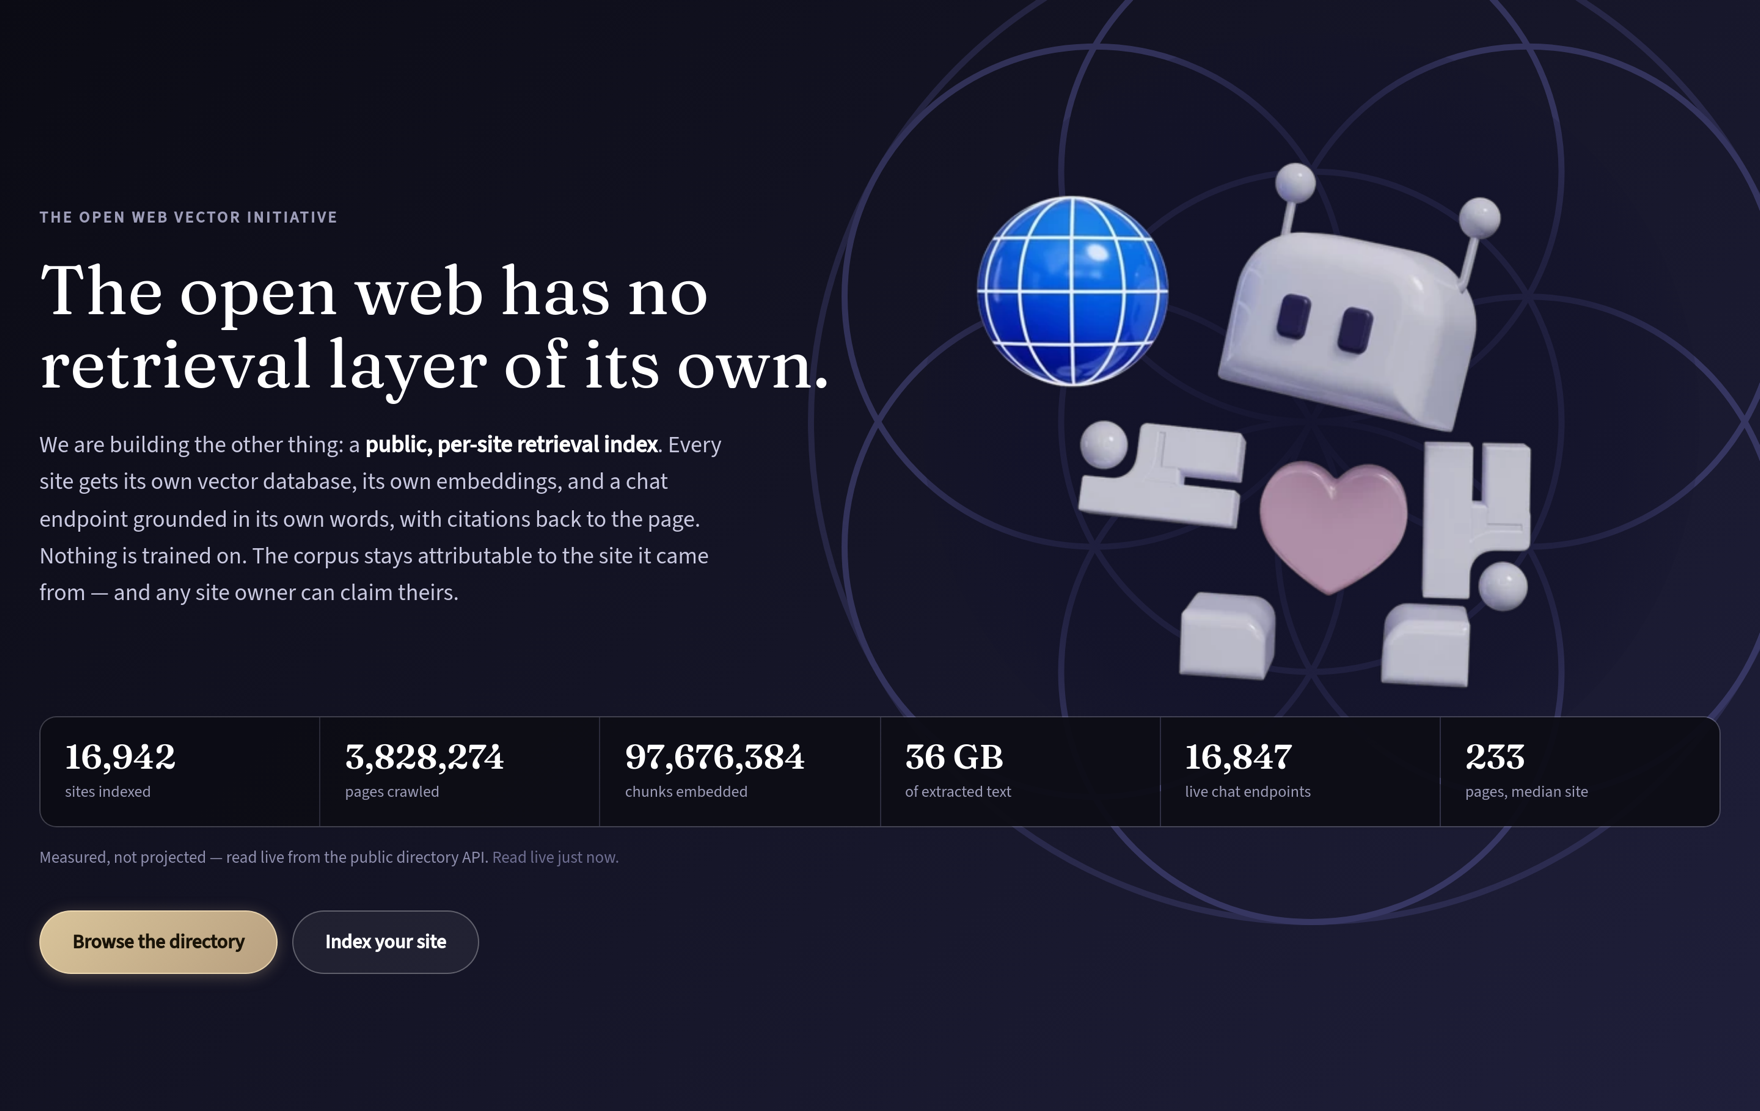
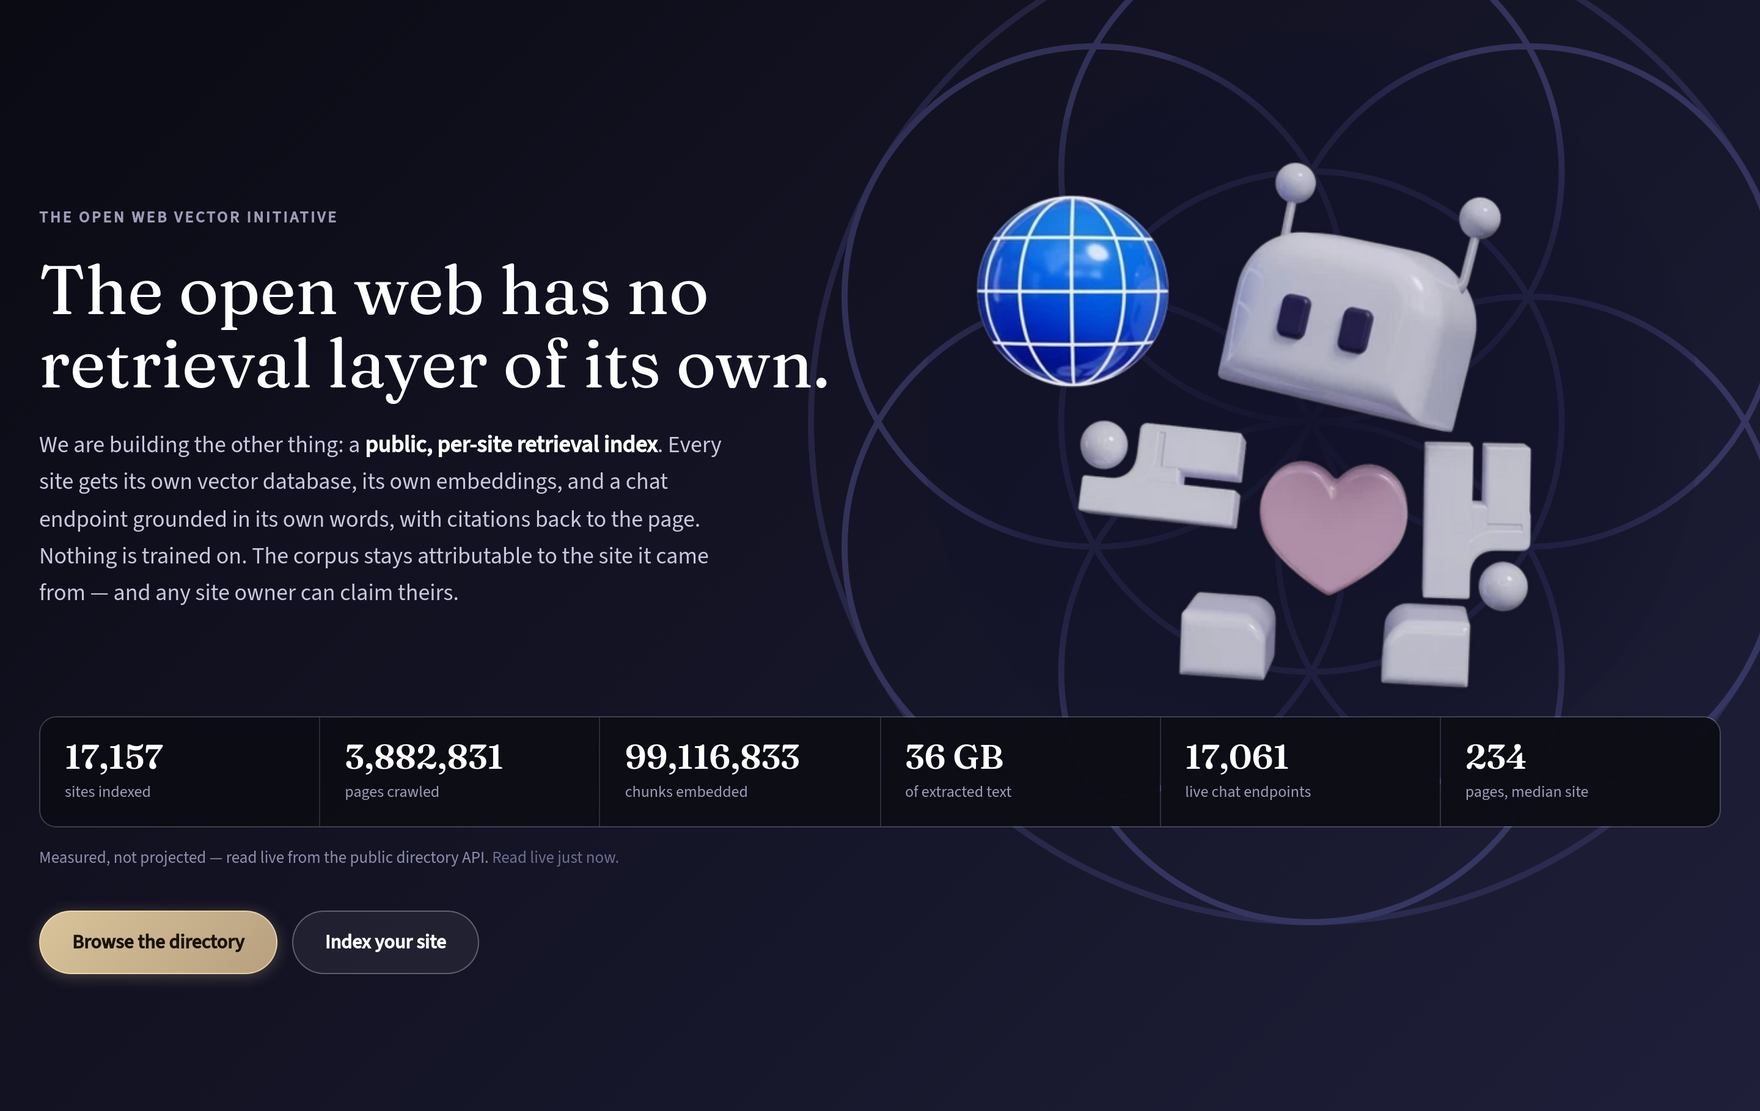
docs: refresh the Open Web Vectors screenshot and counts

diff --git a/README.md b/README.md
@@ -322,7 +322,7 @@ We do appreciate contributions back — including a bug report that amounts to
 is the test this repo is built around. And the wider project it feeds is the
 [**Open Web Vectors Initiative**](https://divinci.ai/open-web-vectors/).
 
-[![The Open Web Vectors Initiative — the open web has no retrieval layer of its own. A public, per-site retrieval index: every site gets its own vector database, its own embeddings, and a chat endpoint grounded in its own words with citations back to the page. Nothing is trained on. Live counts: 16,944 sites indexed, 3,828,876 pages crawled, 97,696,681 chunks embedded, 36 GB of extracted text, 16,849 live chat endpoints, 233 pages for the median site.](docs/open-web-vectors/open-web-vectors.png)](https://divinci.ai/open-web-vectors/)
+[![The Open Web Vectors Initiative — the open web has no retrieval layer of its own. A public, per-site retrieval index: every site gets its own vector database, its own embeddings, and a chat endpoint grounded in its own words with citations back to the page. Nothing is trained on. Live counts: 17,157 sites indexed, 3,882,832 pages crawled, 99,116,833 chunks embedded, 36 GB of extracted text, 17,061 live chat endpoints, 234 pages for the median site.](docs/open-web-vectors/open-web-vectors.png)](https://divinci.ai/open-web-vectors/)
 
 A public, per-site retrieval index where every site gets its own vectors, its
 own embeddings and a citation-backed chat endpoint, nothing is trained on, and
